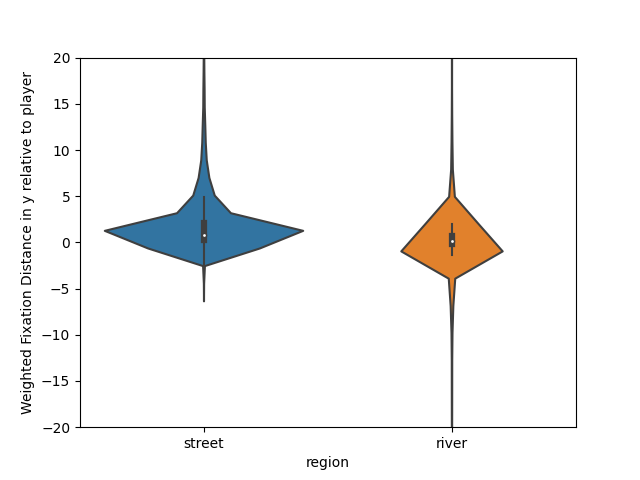
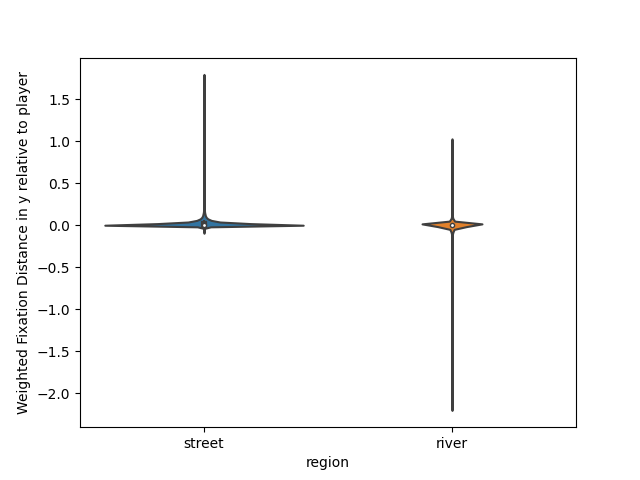
fixation position relative to player position for street and river section

diff --git a/analysis/gaze/fixations.py b/analysis/gaze/fixations.py
@@ -620,7 +620,7 @@ def polar_hist_fixations(df, axs):
 
 def calc_weighted_y_distance(game_df):
     total_fix_duration = game_df['fix_duration'].sum()
-    y_distance = game_df['fix_y'] - game_df['player_y']
+    y_distance = game_df['fix_y_field'] - game_df['player_y_field']
     return y_distance * game_df['fix_duration'] / total_fix_duration
 
 
@@ -631,41 +631,43 @@ def plot_gaze_y_position_relative_to_player():
     df['weighted_y_distance'] = df.groupby(['subject_id', 'game_difficulty', 'world_number']).apply(calc_weighted_y_distance).values
     ax = sns.histplot(data=df, y='weighted_y_distance', hue='region', stat='proportion', multiple='stack')
     ax.set_ylabel('Weighted Fixation Distance in y relative to player')
-    ax.set_ylim((-20, 20))
     plt.savefig('./imgs/gaze/fixations/weighted_y_gaze_relative_to_player_hist.png')
     plt.tight_layout()
     plt.show()
 
     ax = sns.violinplot(data=df, y='weighted_y_distance', x='region')
-    ax.set_ylim((-20, 20))
     ax.set_ylabel('Weighted Fixation Distance in y relative to player')
     plt.savefig('./imgs/gaze/fixations/weighted_y_gaze_relative_to_player_violin.png')
     plt.tight_layout()
     plt.show()
 
     print('\n ----------------- Y Fix Position Relative to player')
-
     max_y = df['weighted_y_distance'].max()
     min_y = df['weighted_y_distance'].min()
     mean_y = df['weighted_y_distance'].mean()
     var_y = df['weighted_y_distance'].var()
+    median_y = df['weighted_y_distance'].median()
     print('\nGeneral:')
-    print(f'Range: [{min_y:.5f}, {max_y:.5f}] \t| mean {mean_y:.5f} with var {var_y:.5f}')
+    print(f'Range: [{min_y:.5f}, {max_y:.5f}] \t| mean {mean_y:.5f} with var {var_y:.5f} \t| median {median_y:.5f}')
 
     df_street = get_street_data(df)
     max_y_street = df_street['weighted_y_distance'].max()
     min_y_street = df_street['weighted_y_distance'].min()
     mean_y_street = df_street['weighted_y_distance'].mean()
     var_y_street = df_street['weighted_y_distance'].var()
+    median_y_street = df_street['weighted_y_distance'].median()
     print('\nStreet:')
-    print(f'Range: [{min_y_street:.5f}, {max_y_street:.5f}] \t| mean {mean_y_street:.5f} with var {var_y_street:.5f}')
+    print(
+        f'Range: [{min_y_street:.5f}, {max_y_street:.5f}] \t| mean {mean_y_street:.5f} with var {var_y_street:.5f} \t| median {median_y_street:.5f}')
     df_river = get_river_data(df)
     max_y_river = df_river['weighted_y_distance'].max()
     min_y_river = df_river['weighted_y_distance'].min()
     mean_y_river = df_river['weighted_y_distance'].mean()
     var_y_river = df_river['weighted_y_distance'].var()
+    median_y_river = df_river['weighted_y_distance'].median()
     print('River:')
-    print(f'Range: [{min_y_river:.5f}, {max_y_river:.5f}] \t| mean {mean_y_river:.5f} with var {var_y_river:.5f}')
+    print(
+        f'Range: [{min_y_river:.5f}, {max_y_river:.5f}] \t| mean {mean_y_river:.5f} with var {var_y_river:.5f} \t| median {median_y_river:.5f}')
 
     print('\nt-test:')
     print(
@@ -678,45 +680,72 @@ def plot_gaze_y_position_relative_to_player():
 
 def calc_weighted_x_distance(game_df):
     total_fix_duration = game_df['fix_duration'].sum()
-    x_distance = game_df['fix_x'] - game_df['player_x']
+    x_distance = game_df['fix_x_field'] - game_df['player_x_field']
     return x_distance * game_df['fix_duration'] / total_fix_duration
 
 
-def plot_gaze_x_position_relative_to_player_per_lane():
+def plot_gaze_x_position_relative_to_player():
     # load data
     df = load_fixations()
-    df['weighted_x_distance'] = df.groupby(['subject_id', 'game_difficulty', 'world_number']).apply(calc_weighted_x_distance)
+    df['region'] = df['player_y_field'].apply(get_region_from_field)
+    df['weighted_x_distance'] = df.groupby(['subject_id', 'game_difficulty', 'world_number']).apply(calc_weighted_x_distance).values
 
-    # Initialize the figure with a logarithmic x axis
-    f, ax = plt.subplots(figsize=paper_plot_utils.figsize)
+    print('\n ----------------- X Fix Position Relative to player')
+    max_x = df['weighted_x_distance'].max()
+    min_x = df['weighted_x_distance'].min()
+    mean_x = df['weighted_x_distance'].mean()
+    var_x = df['weighted_x_distance'].var()
+    median_x = df['weighted_x_distance'].median()
+    print('\nGeneral:')
+    print(f'Range: [{min_x:.5f}, {max_x:.5f}] \t| mean {mean_x:.5f} with var {var_x:.5f} \t| median {median_x:.5f}')
 
-    # Plot the orbital period with horizontal boxes
+    df_street = get_street_data(df)
+    max_x_street = df_street['weighted_x_distance'].max()
+    min_x_street = df_street['weighted_x_distance'].min()
+    mean_x_street = df_street['weighted_x_distance'].mean()
+    var_x_street = df_street['weighted_x_distance'].var()
+    median_x_street = df_street['weighted_x_distance'].median()
+    print('\nStreet:')
+    print(
+        f'Range: [{min_x_street:.5f}, {max_x_street:.5f}] \t| mean {mean_x_street:.5f} with var {var_x_street:.5f} \t| median {median_x_street:.5f}')
+    df_river = get_river_data(df)
+    max_x_river = df_river['weighted_x_distance'].max()
+    min_x_river = df_river['weighted_x_distance'].min()
+    mean_x_river = df_river['weighted_x_distance'].mean()
+    var_x_river = df_river['weighted_x_distance'].var()
+    median_x_river = df_river['weighted_x_distance'].median()
+    print('River:')
+    print(
+        f'Range: [{min_x_river:.5f}, {max_x_river:.5f}] \t| mean {mean_x_river:.5f} with var {var_x_river:.5f} \t| median {median_x_river:.5f}')
+
+    print('\nt-test:')
+    print(
+        'H0: Relative Fixation in x is equal for street and river section | H1: Relative Fixation in x on river is greater than relative fixation on street')
+    ttest_result = scipy.stats.ttest_ind(df_river['weighted_x_distance'], df_street['weighted_x_distance'], alternative='greater')
+    print('Test in Weighted Manhattan Distances')
+    print(ttest_result)
+    print('dof=', df_street['weighted_x_distance'].shape[0] - 1 + df_river['weighted_x_distance'].shape[0] - 1)
+
+    # TODO this also for target position
+
+    # boxplot per lane
     sns.boxplot(x='weighted_x_distance', y='player_y_field', data=df)
-
-    # Add in points to show each observation
-    sns.stripplot(x='weighted_x_distance', y='player_y_field', data=df)
-
     plt.savefig('./imgs/gaze/fixations/weighted_x_gaze_relative_to_player_per_row.png')
     plt.tight_layout()
     plt.show()
 
+    # histogram over x for regions
+    ax = sns.histplot(data=df, x='weighted_x_distance', hue='region', stat='proportion', multiple='stack')
+    ax.set_xlabel('Weighted Fixation Distance in x relative to player')
+    # ax.set_xlim((-20, 20)) TODO
+    plt.savefig('./imgs/gaze/fixations/weighted_x_gaze_relative_to_player_hist.png')
+    plt.tight_layout()
+    plt.show()
 
-def plot_gaze_x_position_relative_to_player_per_region():
-    # load data
-    df = load_fixations()
-    df['region'] = df['player_y_field'].apply(get_region_from_field)
-    df['weighted_x_distance'] = df.groupby(['subject_id', 'game_difficulty', 'world_number']).apply(calc_weighted_x_distance)
-
-    # Initialize the figure with a logarithmic x axis
-    f, ax = plt.subplots(figsize=paper_plot_utils.figsize)
-
-    # Plot the orbital period with horizontal boxes
-    sns.boxplot(x='weighted_x_distance', y='region', data=df)
-
-    # Add in points to show each observation
-    sns.stripplot(x='weighted_x_distance', y='region', data=df)
-
-    plt.savefig('./imgs/gaze/fixations/weighted_x_gaze_relative_to_player_per_region.png')
+    ax = sns.violinplot(data=df, x='weighted_x_distance', y='region')
+    # ax.set_xlim((-20, 20)) TODO
+    ax.set_xlabel('Weighted Fixation Distance in x relative to player')
+    plt.savefig('./imgs/gaze/fixations/weighted_x_gaze_relative_to_player_violin.png')
     plt.tight_layout()
     plt.show()
 
@@ -724,11 +753,52 @@ def plot_gaze_x_position_relative_to_player_per_region():
 def plot_weighted_fixations_relative_to_player():
     # load data
     df = load_fixations()
-    df['weighted_x_distance'] = df.groupby(['subject_id', 'game_difficulty', 'world_number']).apply(calc_weighted_y_distance)
-    df['weighted_y_distance'] = df.groupby(['subject_id', 'game_difficulty', 'world_number']).apply(calc_weighted_y_distance).reset_index()
+    df['region'] = df['player_y_field'].apply(get_region_from_field)
+    df['weighted_x_distance'] = df.groupby(['subject_id', 'game_difficulty', 'world_number']).apply(calc_weighted_x_distance).values
+    df['weighted_y_distance'] = df.groupby(['subject_id', 'game_difficulty', 'world_number']).apply(calc_weighted_y_distance).values
+
+    # todo jetzt nochmal in schön für alle statements von zuvor zusammen:
+    lim = 0.2
+    g = sns.JointGrid(data=df, x="weighted_x_distance", y="weighted_y_distance", hue='region', space=0)
+    g.refline(x=0, y=0)
+    g.plot_joint(sns.kdeplot, levels=15)
+    g.plot_marginals(sns.histplot, binwidth=0.005, multiple='stack')
+    g.ax_marg_x.set_xlim(-lim, lim)
+    g.ax_marg_y.set_ylim(-lim, lim)
+    g.set_axis_labels('x', 'y')
+
+    plt.tight_layout()
+    plt.savefig('./imgs/gaze/fixations/weighted_gaze_position_relative_to_player_pretty.png')
+    plt.show()
+
+    # street only
+    g = sns.JointGrid(data=df[df['region'] == 'street'], x="weighted_x_distance", y="weighted_y_distance", space=0)
+    g.refline(x=0, y=0)
+    g.plot_joint(sns.kdeplot, fill=True, cmap="viridis")
+    g.plot_marginals(sns.histplot, binwidth=0.005, multiple='stack', stat='proportion')
+    g.ax_marg_x.set_xlim(-lim, lim)
+    g.ax_marg_y.set_ylim(-lim, lim)
+    plt.suptitle('Street section')
+
+    plt.tight_layout()
+    plt.savefig('./imgs/gaze/fixations/weighted_gaze_position_relative_to_player_pretty_street.png')
+    plt.show()
+
+    # river only
+    g = sns.JointGrid(data=df[df['region'] == 'river'], x="weighted_x_distance", y="weighted_y_distance", space=0)
+    g.refline(x=0, y=0)
+    g.plot_joint(sns.kdeplot, fill=True, cmap="viridis")
+    g.plot_marginals(sns.histplot, binwidth=0.005, multiple='stack', stat='proportion')
+    g.ax_marg_x.set_xlim(-lim, lim)
+    g.ax_marg_y.set_ylim(-lim, lim)
+    plt.suptitle('River section')
+
+    plt.tight_layout()
+    plt.savefig('./imgs/gaze/fixations/weighted_gaze_position_relative_to_player_pretty_river.png')
+    plt.show()
 
     f, ax = plt.subplots(figsize=paper_plot_utils.figsize)
-    sns.kdeplot(df, x='weighted_x_distance', y='weighted_y_distance', cmap='mako')
+    sns.kdeplot(df, x='weighted_x_distance', y='weighted_y_distance', fill=True, palette='mako')
     plt.axvline(x=0)
     plt.axhline(y=0)
 
@@ -743,7 +813,7 @@ def plot_weighted_fixations_relative_to_player():
     plt.axvline(x=0)
     plt.axhline(y=0)
 
-    plt.savefig('./imgs/gaze/fixations/weighted_gaze_position_relative_to_player.png')
+    plt.savefig('./imgs/gaze/fixations/weighted_gaze_position_relative_to_player_street.png')
     plt.tight_layout()
     plt.show()
 
@@ -754,7 +824,7 @@ def plot_weighted_fixations_relative_to_player():
     plt.axvline(x=0)
     plt.axhline(y=0)
 
-    plt.savefig('./imgs/gaze/fixations/weighted_gaze_position_relative_to_player.png')
+    plt.savefig('./imgs/gaze/fixations/weighted_gaze_position_relative_to_player_river.png')
     plt.tight_layout()
     plt.show()
 
@@ -776,11 +846,11 @@ if __name__ == '__main__':
     # plot_fixation_distance_per_position(df)
     # plot_fixation_distance_box_per_region(df)
 
-    plot_gaze_y_position_relative_to_player()
-
     # TODO
-    plot_gaze_x_position_relative_to_player_per_lane()
+    # plot_gaze_y_position_relative_to_player()
     plot_weighted_fixations_relative_to_player()
+    plot_gaze_x_position_relative_to_player()
+
     # # and for every subject:
     # for subject_id in get_all_subjects():
     #     print('For Subject ', subject_id)
